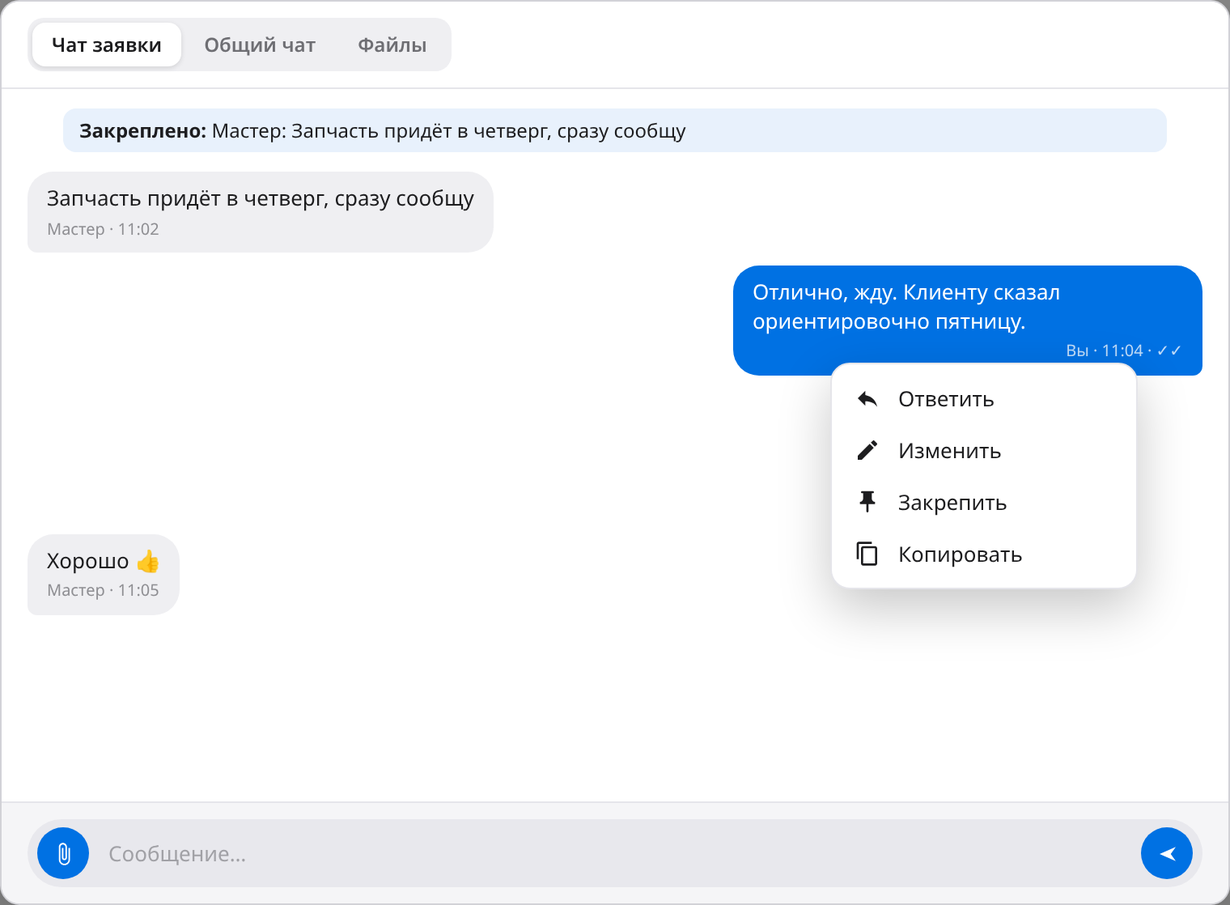
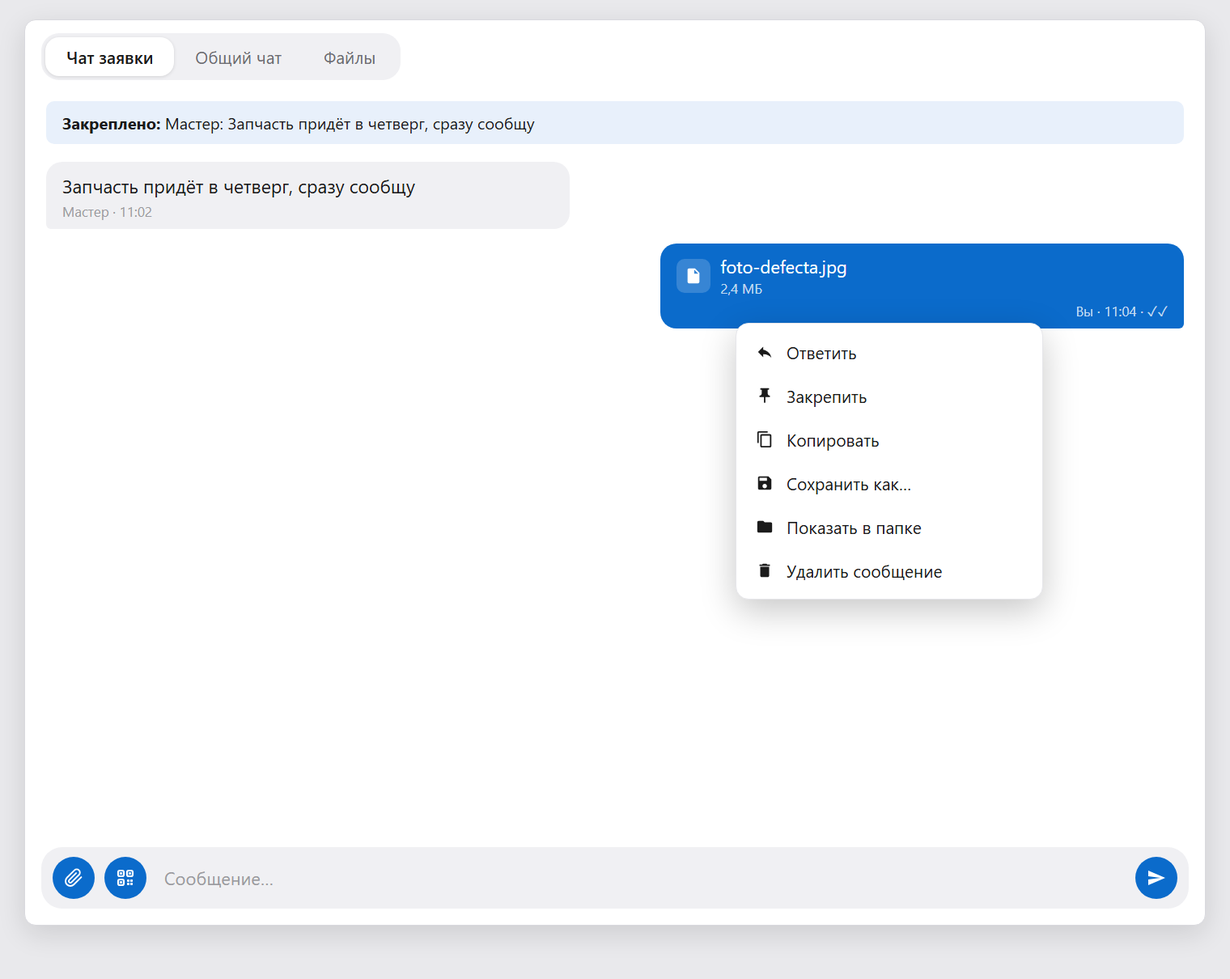
Документация 2.41: обновлено руководство (manual.html), новые иллюстрации — пароль устройства, QR-загрузка с телефона, меню сообщения

diff --git a/docs/manual.html b/docs/manual.html
@@ -83,7 +83,7 @@
       <div class="cover-desc">Заявки на ремонт, чат и уведомления между менеджерами и мастером —<br>для обеих ролей, с иллюстрациями интерфейса</div>
     </div>
     <div class="cover-meta">
-      <div>Версия программы: <b>2.39</b></div>
+      <div>Версия программы: <b>2.41</b></div>
       <div>Роли: Мастер · Менеджер</div>
       <div>Платформа: Windows 10 / 11 (64-разрядные)</div>
     </div>
@@ -119,6 +119,7 @@
     <tr><td>Создание заявок (одна или несколько одновременно)</td><td>Да, с фото и файлами до 5 ГБ</td><td>Нет</td></tr>
     <tr><td>Приём заявок, напоминания со звуком</td><td>—</td><td>Да: «Принять», «Отложить ▾» на 5–60 минут, «Заглушить»</td></tr>
     <tr><td>Чат по заявке и общий чат, файлы</td><td>Да</td><td>Да</td></tr>
+    <tr><td>Загрузка фото и файлов с телефона по QR-коду (без приложения, раздел 6.5)</td><td>Да</td><td>Да</td></tr>
     <tr><td>Завершение ремонта</td><td>Да, по любой своей заявке</td><td>Да</td></tr>
     <tr><td>Отчёт о ремонте (TXT + HTML для печати)</td><td>Создаётся автоматически в общей папке менеджера</td><td>Получает подтверждение о сохранении</td></tr>
     <tr><td>Общая папка (отчёты, журнал CSV, полученные файлы)</td><td>Полный доступ</td><td>Доступа нет: файлы хранятся локально, видны на вкладке «Файлы»</td></tr>
@@ -209,13 +210,15 @@
 <ul>
   <li><b>Текст заявки</b> — что случилось и что нужно сделать (обязательно);</li>
   <li><b>Клиент, устройство, серийный № / IMEI</b> — по желанию, всё попадёт в отчёт;</li>
-  <li><b>«Срочная заявка»</b> — заявка получит красный бейдж «СРОЧНО» в списках у менеджера и мастера;</li>
-  <li><b>«＋ Добавить файл»</b> — фото и файлы к заявке (до 10 файлов, каждый до 5 ГБ); вложения автоматически уходят в чат заявки.</li>
+  <li><b>Пароль устройства</b> — код блокировки или графический ключ (по желанию): мастер увидит его в карточке заявки и сможет сразу включить устройство, пароль попадёт в отчёт;</li>
+  <li><b>«Срочная заявка»</b> — оранжевая плашка под полями формы: заявка получит бейдж «СРОЧНО» в списках у менеджера и мастера;</li>
+  <li><b>«＋ Добавить файл»</b> — фото и файлы к заявке (до 10 файлов, каждый до 5 ГБ); вложения автоматически уходят в чат заявки;</li>
+  <li><b>«С телефона»</b> — фото и видео прямо с телефона по QR-коду, попадают в тот же список вложений (раздел 6.5).</li>
 </ul>
 <p>Кнопка «Отправить заявку» создаёт заявку даже без связи: она уйдёт автоматически при подключении. Заявок может быть несколько одновременно — у каждой свой чат и свои вложения.</p>
 <figure id="fig5">
   <img src="img/fig05-newjob.png" alt="Форма новой заявки">
-  <figcaption data-label="Рисунок 5">Форма новой заявки с полями и вложениями</figcaption>
+  <figcaption data-label="Рисунок 5">Форма новой заявки: поля, «Срочная заявка», вложения и загрузка с телефона</figcaption>
 </figure>
 
 <h2 class="newpage">4.2. Пока заявка ждёт</h2>
@@ -228,7 +231,7 @@
 <h2>4.3. Завершение, отчёт и архив</h2>
 <ol>
   <li>Когда ремонт закончен, нажмите «Завершить» в карточке нужной заявки (мастер может сделать то же у себя). Откроется панель подтверждения с необязательным полем «Что сделано» — итог попадёт в отчёт.</li>
-  <li>На компьютере менеджера в общей папке автоматически создаются два файла отчёта: обычный TXT и красивый HTML (кнопка «Открыть HTML» — удобно распечатать из браузера). В отчёте: номер и название, клиент, устройство, серийный номер, срочность, пользователь и компьютер менеджера, время начала и завершения, длительность, вся переписка и имена приложенных файлов.</li>
+  <li>На компьютере менеджера в общей папке автоматически создаются два файла отчёта: обычный TXT и красивый HTML (кнопка «Открыть HTML» — удобно распечатать из браузера). В отчёте: номер и название, клиент, устройство, серийный номер, пароль устройства, срочность, пользователь и компьютер менеджера, время начала и завершения, длительность, вся переписка и имена приложенных файлов.</li>
   <li>Завершённую карточку можно убрать кнопкой «В архив»: 8 секунд действует отмена, затем карточка убирается из списка менеджера на вкладку «Архив» (с кнопками «Отчёт» и «Удалить»), а у мастера и у остальных пользователей остаётся в общем списке со статусом «Завершена». TXT-отчёт и строка в «Журнал ремонтов.csv» сохраняются.</li>
 </ol>
 <div class="notebox">
@@ -242,7 +245,7 @@
   <li>Чужую заявку можно открыть для просмотра: описание, клиент, устройство, серийный номер, итог «Что сделано», у завершённой — кнопка «Открыть папку отчётов». Чат по чужой заявке доступен её автору и мастеру.</li>
   <li><b>Удалить заявку может любой пользователь — удаление действует сразу у всех.</b> У менеджера: «Удалить заявку» в карточке чужой или своей заявки (у ожидающей — «Отменить заявку», у зависшей — «Убрать без отчёта»), а в «Архиве» — кнопка «Удалить» в строке. Программа попросит подтверждение и предупредит, если отчёт ещё не сохранён.</li>
   <li>Удалённая заявка исчезает у мастера и у всех менеджеров — сразу, а у отключённых в этот момент — при первом подключении; удалённые заявки не «воскресают» при переподключении. Восстановить удалённую заявку нельзя. Файлы отчётов в общей папке остаются.</li>
-  <li><b>Изменить заявку может любой пользователь.</b> Кнопка «Изменить» есть в карточке каждой заявки — своей и чужой, у менеджера и у мастера. Меняются описание, клиент, устройство, серийный номер/IMEI и срочность; статус заявки, даты и уже сохранённые отчёты правка не трогает. Изменения видны сразу у всех пользователей (у отключённых — при первом подключении); если заявку изменил кто-то другой, её автор видит уведомление «Заявка изменена». У менеджера правка доступна при подключении к мастеру.</li>
+  <li><b>Изменить заявку может любой пользователь.</b> Кнопка «Изменить» есть в карточке каждой заявки — своей и чужой, у менеджера и у мастера. Меняются описание, клиент, устройство, серийный номер/IMEI, пароль и срочность; статус заявки, даты и уже сохранённые отчёты правка не трогает. Изменения видны сразу у всех пользователей (у отключённых — при первом подключении); если заявку изменил кто-то другой, её автор видит уведомление «Заявка изменена». У менеджера правка доступна при подключении к мастеру.</li>
 </ul>
 
 <h2>4.5. Общая папка</h2>
@@ -283,6 +286,7 @@
 <h2>5.3. Завершение и особые случаи</h2>
 <ul>
   <li><b>«Завершить»</b> — отчёт создаётся на компьютере менеджера; мастер получает подтверждение сохранения. Если у менеджера временно недоступна общая папка, заявка у мастера показывает «Ожидает отчёт».</li>
+  <li><b>Завершение менеджером.</b> Если заявку завершил менеджер, мастер получает всплывающее уведомление Windows «Заявка завершена менеджером» — один раз на заявку, без повторов. Уведомление отключается галочкой «Уведомлять, когда менеджер завершает заявку» в «⚙ Настройки» (включена по умолчанию).</li>
   <li>Любую заявку мастер может изменить кнопкой <b>«Изменить»</b> в её карточке: описание, клиент, устройство, серийный номер и срочность обновятся сразу у всех пользователей. Статус заявки и сохранённые отчёты не меняются.</li>
   <li>Любую заявку — ожидающую, в работе, ожидающую отчёт или завершённую — мастер может удалить кнопкой <b>«Удалить заявку»</b> в её карточке. Программа попросит подтверждение и предупредит, если отчёт ещё не сохранён. Заявка исчезает из списков у всех пользователей — сразу, а у отключённых менеджеров — при первом подключении; восстановить её нельзя. Файл отчёта в общей папке остаётся.</li>
   <li>Если ожидание отчёта затянулось (папка недоступна долго), это тот же случай: кнопка «Удалить заявку» уберёт такую заявку у всех, отчёт при этом создан не будет.</li>
@@ -304,14 +308,14 @@
 <ul>
   <li><b>Чат заявки</b> — переписка по выбранному ремонту. После завершения ремонта историю можно читать и копировать, писать нельзя.</li>
   <li><b>Общий чат</b> — переписка без привязки к ремонту, открыта всегда, даже без активных заявок. У мастера общий чат отдельный с каждым менеджером: собеседник выбирается переключателем «Чат с менеджером: …» над чатом (в списке — только менеджеры в сети; без сети поле неактивно и показывает «Менеджер не в сети»).</li>
-  <li><b>Файлы</b> — все вложения выбранной заявки и общего чата одним списком с кнопками «Открыть».</li>
+  <li><b>Файлы</b> — все вложения выбранной заявки и общего чата одним списком. У каждого файла кнопки «Открыть» и «Показать в папке»: полученный файл уже сохранён на этом компьютере, «Показать в папке» открывает проводник с выделенным файлом.</li>
 </ul>
 
 <h2>6.2. Отправка сообщений</h2>
 <ul>
   <li><b>Enter</b> — отправить, <b>Shift+Enter</b> — новая строка.</li>
   <li><b>Ctrl+V</b> вставляет скриншот из буфера обмена (уходит файлом PNG и показывается миниатюрой) или скопированные в проводнике файлы.</li>
-  <li>Файлы прикрепляются кнопкой-скрепкой слева от поля ввода или перетаскиванием прямо в окно чата — можно сразу несколько.</li>
+  <li>Файлы прикрепляются кнопкой-скрепкой слева от поля ввода или перетаскиванием прямо в окно чата — можно сразу несколько. Кнопка с QR-кодом рядом со скрепкой принимает фото и файлы с телефона (раздел 6.5).</li>
   <li>Статусы под своими сообщениями: «○ В очереди» → «✓ Доставлено» → «✓✓ Прочитано».</li>
   <li>Текст любого сообщения выделяется мышью и копируется обычным Ctrl+C.</li>
 </ul>
@@ -320,7 +324,7 @@
 <p>Правый клик по любому сообщению открывает меню в стиле Telegram — скруглённая карточка в цветах текущей темы оформления с иконками (рис. 7):</p>
 <figure class="wide" id="fig7">
   <img src="img/fig07-chat.png" alt="Меню правой кнопки по сообщению">
-  <figcaption data-label="Рисунок 7">Меню правой кнопки: «Ответить», «Изменить», «Закрепить», «Копировать»</figcaption>
+  <figcaption data-label="Рисунок 7">Меню правой кнопки по сообщению с файлом</figcaption>
 </figure>
 <table>
   <caption data-label="Таблица 4">Действия меню сообщения</caption>
@@ -330,6 +334,9 @@
     <tr><td>Изменить</td><td>Только свои текстовые сообщения: текст возвращается в поле, Enter сохраняет правку, Esc отменяет. Исправление сразу видно собеседнику</td></tr>
     <tr><td>Закрепить</td><td>Закрепляет сообщение полосой над историей у обоих участников; клик по полосе прокручивает к сообщению. Повторный выбор — «Открепить». Закреп сохраняется между перезапусками</td></tr>
     <tr><td>Копировать</td><td>Копирует текст сообщения (или название файла) в буфер обмена</td></tr>
+    <tr><td>Сохранить как…</td><td>Только у сообщений с файлами: копирует вложение в выбранное место (неактивен, пока файл ещё передаётся)</td></tr>
+    <tr><td>Показать в папке</td><td>Только у сообщений с файлами: открывает проводник с уже сохранённым на этом компьютере файлом</td></tr>
+    <tr><td>Удалить сообщение</td><td>Неотправленное своё («В очереди») исчезает совсем; остальные удаляются только на этом компьютере — программа предупредит, что у собеседника сообщение останется</td></tr>
   </tbody>
 </table>
 
@@ -339,12 +346,31 @@
 <p>Если большие файлы отправляются слишком долго, над полем сообщения появляется «Остановить файлы»: недоставленные файлы этого чата отменяются (у получателя удаляется недокачанная часть), связь и переписка продолжаются.</p>
 <p>Неотправленное сообщение «В очереди» можно удалить маленьким значком «✕» рядом с датой.</p>
 
+<h2 class="newpage">6.5. Загрузка фото и файлов с телефона (QR-код)</h2>
+<p>Фото, видео и документы можно передать в чат или в новую заявку прямо с телефона — без приложений, облаков и кабелей. Телефон и компьютер должны быть в одной Wi-Fi сети, интернет не нужен.</p>
+<ol>
+  <li>Нажмите кнопку с QR-кодом рядом со скрепкой (в любом чате) или «С телефона» в форме новой заявки — откроется окно с QR-кодом (рис. 8).</li>
+  <li>Наведите на код камеру телефона и откройте ссылку — загрузится страница передачи. Выберите файлы: можно несколько сразу.</li>
+  <li>Дождитесь конца передачи — файлы сами попадут в текущий чат или в список вложений заявки, а дальше уйдут собеседнику обычным путём.</li>
+</ol>
+<figure id="fig8">
+  <img src="img/fig08-qr.png" alt="Окно загрузки с телефона">
+  <figcaption data-label="Рисунок 8">Окно загрузки с телефона: QR-код, выбор адреса и кнопка «Разрешить в брандмауэре»</figcaption>
+</figure>
+<ul>
+  <li>Размер — до 5 ГБ на файл; файлы идут частями, при обрыве страница продолжит с места обрыва. Ссылка одноразовая, окно действует 10 минут без дела.</li>
+  <li>Если сетей несколько, адрес переключается списком под QR-кодом — первым стоит «рекомендуемый». Адрес 100.x.x.x (Tailscale) работает, только если на телефоне включён тот же Tailscale.</li>
+  <li><b>Страница на телефоне не открывается?</b> Нажмите «Разрешить в брандмауэре» в окне QR-кода и подтвердите запрос администратора — это нужно один раз на компьютере. Также проверьте, что Wi-Fi не гостевая: в гостевых сетях устройства изолированы.</li>
+  <li>Держите страницу открытой, пока идёт передача: на заблокированном экране телефон ставит загрузку на паузу.</li>
+  <li>На iPhone выбирайте файлы через «Файлы», если важен исходный формат (HEIC, ProRes): выбор через «Фото» может перекодировать снимки и видео — так делает iOS, а не программа.</li>
+</ul>
+
 <h1 class="sec" id="sec7">7. Уведомления и звуки</h1>
 <h2>7.1. Карточка входящего сообщения</h2>
-<p>Новое сообщение или файл вызывает карточку в правом нижнем углу, над часами (рис. 8) — в стиле мини-панели. Карточка звучит сигналом, не исчезает сама и не перехватывает фокус: закрывается только кнопкой или ✕.</p>
-<figure id="fig8">
-  <img src="img/fig08-notify.png" alt="Карточка входящего сообщения">
-  <figcaption data-label="Рисунок 8">Карточка входящего сообщения справа внизу экрана</figcaption>
+<p>Новое сообщение или файл вызывает карточку в правом нижнем углу, над часами (рис. 9) — в стиле мини-панели. Карточка звучит сигналом, не исчезает сама и не перехватывает фокус: закрывается только кнопкой или ✕.</p>
+<figure id="fig9">
+  <img src="img/fig09-notify.png" alt="Карточка входящего сообщения">
+  <figcaption data-label="Рисунок 9">Карточка входящего сообщения справа внизу экрана</figcaption>
 </figure>
 <ul>
   <li><b>«Открыть чат»</b> — открывает нужный чат и останавливает сигнал.</li>
@@ -369,14 +395,14 @@
 <p>Заявки, сообщения и завершение дублируются стандартными уведомлениями Windows — системный тост исчезает сам через несколько секунд, постоянным напоминанием служит внутренняя карточка программы. Если уведомлений не видно, проверьте «Параметры → Система → Уведомления» и отключите «Не беспокоить».</p>
 
 <h1 class="sec" id="sec8">8. Мини-панель и область уведомлений</h1>
-<p>Одиночный клик левой кнопкой по значку «СЕРВИС ЛЕГКО» возле часов открывает компактную мини-панель над треем (рис. 9 и 10). Она закрывается кликом мимо неё, клавишей Esc или повторным кликом по значку.</p>
-<figure id="fig9">
-  <img src="img/fig09-minipanel.png" alt="Мини-панель менеджера">
-  <figcaption data-label="Рисунок 9">Мини-панель менеджера</figcaption>
-</figure>
+<p>Одиночный клик левой кнопкой по значку «СЕРВИС ЛЕГКО» возле часов открывает компактную мини-панель над треем (рис. 10 и 11). Она закрывается кликом мимо неё, клавишей Esc или повторным кликом по значку.</p>
 <figure id="fig10">
-  <img src="img/fig10-minimaster.png" alt="Мини-панель мастера">
-  <figcaption data-label="Рисунок 10">Мини-панель мастера</figcaption>
+  <img src="img/fig10-minipanel.png" alt="Мини-панель менеджера">
+  <figcaption data-label="Рисунок 10">Мини-панель менеджера</figcaption>
+</figure>
+<figure id="fig11">
+  <img src="img/fig11-minimaster.png" alt="Мини-панель мастера">
+  <figcaption data-label="Рисунок 11">Мини-панель мастера</figcaption>
 </figure>
 <ul>
   <li>У менеджера — «Быстрая заявка»: одно поле «Что сломалось?», галочка «Срочно» и кнопка «Отправить» (работает и Enter); ниже — список активных заявок, клик по строке открывает её в полном окне.</li>
@@ -389,10 +415,10 @@
 <p>Нажатие на ✕ любого главного окна скрывает программу в область уведомлений — связь, сигналы, чаты и очередь продолжают работать. Вернуть окно: двойной клик по значку или правая кнопка → «Открыть СЕРВИС ЛЕГКО». Полный выход — только через правую кнопку по значку → «Закрыть программу»; если есть неотправленные сообщения, программа предупредит: очередь сохранится и уйдёт при следующем запуске.</p>
 
 <h1 class="sec" id="sec9">9. Настройки</h1>
-<p>Все параметры собраны на выдвижной панели «⚙ Настройки» (рис. 11). Клавиша Esc закрывает панель.</p>
-<figure id="fig11">
-  <img src="img/fig11-settings.png" alt="Панель настроек менеджера">
-  <figcaption data-label="Рисунок 11">Панель настроек менеджера</figcaption>
+<p>Все параметры собраны на выдвижной панели «⚙ Настройки» (рис. 12). Клавиша Esc закрывает панель.</p>
+<figure id="fig12">
+  <img src="img/fig12-settings.png" alt="Панель настроек менеджера">
+  <figcaption data-label="Рисунок 12">Панель настроек менеджера</figcaption>
 </figure>
 <table style="page-break-inside: avoid;">
   <caption data-label="Таблица 6">Разделы настроек</caption>
@@ -402,6 +428,7 @@
     <tr><td>Внешний вид</td><td>Тема: «Как в Windows», «Светлая» или «Тёмная». Новая тема применится при следующем запуске программы</td></tr>
     <tr><td>Тихие часы</td><td>Интервал без звука (например, 22:00–08:00)</td></tr>
     <tr><td>Звуки уведомлений</td><td>Отдельный звук для каждого сценария, включая свой файл WAV/MP3</td></tr>
+    <tr><td>Уведомления (мастер)</td><td>Галочка «Уведомлять, когда менеджер завершает заявку» (включена по умолчанию)</td></tr>
     <tr><td>Общая папка (менеджер)</td><td>«Открыть общую папку», «Изменить общую папку»</td></tr>
     <tr><td>Диагностика</td><td>Текущая версия, пользователь и компьютер, «Скопировать диагностику», «Открыть журнал» (app.log), «Сменить роль»</td></tr>
     <tr><td>Автозапуск</td><td>«Автозапуск вместе с Windows» и «При автозапуске открываться только в трее» (оба включены по умолчанию)</td></tr>
@@ -442,6 +469,8 @@
     <tr><td>У мастера «Порт 47891 уже занят»</td><td>Работает вторая копия программы или старая «РемонтСвязь»: закройте её через значок возле часов (правой кнопкой → «Закрыть программу») и перезапустите</td></tr>
     <tr><td>Windows показала предупреждение SmartScreen</td><td>«Подробнее» → «Выполнить в любом случае». Это стандартная реакция на новые файлы; со временем она исчезает</td></tr>
     <tr><td>Не видны уведомления Windows</td><td>Параметры → Система → Уведомления; отключите «Не беспокоить»</td></tr>
+    <tr><td>Телефон не открывает страницу по QR-коду</td><td>Нажмите «Разрешить в брандмауэре» в окне QR-кода (один раз, нужны права администратора). Телефон и компьютер должны быть в одной Wi-Fi сети, не гостевой; проверьте, что выбран «рекомендуемый» адрес</td></tr>
+    <tr><td>Загрузка с телефона остановилась</td><td>Держите страницу открытой и экран включённым; при обрыве откройте ссылку снова — передача продолжится с места обрыва</td></tr>
     <tr><td>Не слышно сигналов</td><td>Проверьте системную громкость, «Тихие часы» и выбранный звук в «⚙ Настройки»</td></tr>
     <tr><td>«Обновите программу — версии отличаются»</td><td>Обновите обе стороны до одной версии. Повторная попытка — сама через 10 минут или по кнопке «Повторить сейчас»</td></tr>
     <tr><td>Нужна помощь разработчика</td><td>«⚙ Настройки» → «Скопировать диагностику» и «Открыть журнал» — приложите app.log к обращению</td></tr>

diff --git a/docs/mock-chat.html b/docs/mock-chat.html
@@ -1,0 +1,70 @@
+<!DOCTYPE html>
+<html lang="ru">
+<head>
+<meta charset="utf-8">
+<style>
+  * { box-sizing: border-box; margin: 0; padding: 0; }
+  body { font-family: "Segoe UI", "DejaVu Sans", sans-serif; background: #e9e9ec; width: 1520px; height: 1180px; overflow: hidden; }
+  .win { width: 1460px; height: 1120px; margin: 24px auto 0; background: #ffffff; border: 1px solid #d9d9de; border-radius: 14px; overflow: hidden; box-shadow: 0 10px 34px rgba(0,0,0,.12); display: flex; flex-direction: column; }
+  .tabs { padding: 16px 20px 0; }
+  .tabs-in { display: inline-flex; background: #f0f0f3; border-radius: 22px; padding: 5px; }
+  .tab { padding: 10px 26px; font-size: 21px; color: #6b6b70; border-radius: 17px; }
+  .tab.active { background: #fff; color: #1b1b1b; font-weight: 600; box-shadow: 0 1px 4px rgba(0,0,0,.12); }
+  .history { flex: 1; padding: 20px 26px; position: relative; }
+  .pinned { background: #e8f0fb; border-radius: 10px; padding: 13px 20px; font-size: 20px; color: #1b1b1b; margin: 6px 0 22px; }
+  .bubble { max-width: 46%; border-radius: 20px; padding: 14px 20px 10px; font-size: 23px; line-height: 1.35; margin-bottom: 18px; }
+  .bubble .meta { font-size: 17px; color: #9a9aa0; margin-top: 5px; }
+  .bubble.in { background: #f0f0f3; color: #1b1b1b; border-bottom-left-radius: 6px; }
+  .bubble.out { background: #0b6bcb; color: #fff; margin-left: auto; border-bottom-right-radius: 6px; }
+  .bubble.out .meta { color: rgba(255,255,255,.75); text-align: right; }
+  .fileline { display: flex; align-items: center; gap: 12px; }
+  .fileicon { width: 42px; height: 42px; border-radius: 10px; background: rgba(255,255,255,.18); display: flex; align-items: center; justify-content: center; }
+  .fileicon svg { width: 22px; height: 22px; }
+  .fname { font-size: 22px; }
+  .fsize { font-size: 17px; color: rgba(255,255,255,.75); }
+  .menu { position: absolute; right: 200px; top: 300px; width: 380px; background: #fff; border-radius: 16px; box-shadow: 0 14px 44px rgba(0,0,0,.22); border: 1px solid #e6e6ea; padding: 8px; }
+  .mi { display: flex; align-items: center; gap: 16px; padding: 13px 16px; font-size: 21px; color: #1b1b1b; border-radius: 10px; }
+  .mi svg { width: 22px; height: 22px; flex: none; }
+  .composer { margin: 0 20px 20px; background: #f0f0f3; border-radius: 26px; padding: 12px 14px; display: flex; align-items: center; gap: 12px; }
+  .cbtn { width: 52px; height: 52px; border-radius: 50%; background: #0b6bcb; display: flex; align-items: center; justify-content: center; flex: none; }
+  .cbtn svg { width: 24px; height: 24px; }
+  .placeholder { flex: 1; font-size: 22px; color: #9a9aa0; padding-left: 10px; }
+</style>
+</head>
+<body>
+<div class="win">
+  <div class="tabs"><div class="tabs-in">
+    <div class="tab active">Чат заявки</div><div class="tab">Общий чат</div><div class="tab">Файлы</div>
+  </div></div>
+  <div class="history">
+    <div class="pinned"><b>Закреплено:</b> Мастер: Запчасть придёт в четверг, сразу сообщу</div>
+    <div class="bubble in">Запчасть придёт в четверг, сразу сообщу<div class="meta">Мастер · 11:02</div></div>
+    <div class="bubble out">
+      <div class="fileline">
+        <div class="fileicon"><svg viewBox="0 0 24 24" fill="#fff"><path d="M14,2H6C4.9,2 4,2.9 4,4v16c0,1.1 0.9,2 2,2h12c1.1,0 2-0.9 2-2V8L14,2z M13,9V3.5L18.5,9H13z"/></svg></div>
+        <div><div class="fname">foto-defecta.jpg</div><div class="fsize">2,4 МБ</div></div>
+      </div>
+      <div class="meta">Вы · 11:04 · ✓✓</div>
+    </div>
+    <div class="menu">
+      <div class="mi"><svg viewBox="0 0 24 24" fill="#1b1b1b"><path d="M10,9V5l-7,7 7,7v-4.1c5,0 8.5,1.6 11,5.1-1-5.5-4.5-9.5-11-11z"/></svg>Ответить</div>
+      <div class="mi"><svg viewBox="0 0 24 24" fill="#1b1b1b"><path d="M16,9V4h1c0.55,0 1-0.45 1-1s-0.45-1-1-1H7C6.45,2 6,2.45 6,3s0.45,1 1,1h1v5c0,1.66-1.34,3-3,3v2h5.97v7l1,1 1-1v-7H19v-2c-1.66,0-3-1.34-3-3z"/></svg>Закрепить</div>
+      <div class="mi"><svg viewBox="0 0 24 24" fill="#1b1b1b"><path d="M16,1H4C2.9,1 2,1.9 2,3v14h2V3h12V1zm3,4H8C6.9,5 6,5.9 6,7v14c0,1.1 0.9,2 2,2h11c1.1,0 2-0.9 2-2V7C21,5.9 20.1,5 19,5zm0,16H8V7h11v14z"/></svg>Копировать</div>
+      <div class="mi"><svg viewBox="0 0 24 24" fill="#1b1b1b"><path d="M17,3H5C3.89,3 3,3.9 3,5v14c0,1.1 0.89,2 2,2h14c1.1,0 2-0.9 2-2V7l-4-4zm-5,16c-1.66,0-3-1.34-3-3s1.34-3 3-3 3,1.34 3,3-1.34,3-3,3zm3-10H5V5h10v4z"/></svg>Сохранить как…</div>
+      <div class="mi"><svg viewBox="0 0 24 24" fill="#1b1b1b"><path d="M10,4H4C2.9,4 2.01,4.9 2.01,6L2,18c0,1.1 0.9,2 2,2h16c1.1,0 2-0.9 2-2V8c0-1.1-0.9-2-2-2h-8l-2-2z"/></svg>Показать в папке</div>
+      <div class="mi"><svg viewBox="0 0 24 24" fill="#1b1b1b"><path d="M6,19c0,1.1 0.9,2 2,2h8c1.1,0 2-0.9 2-2V7H6v12zM19,4h-3.5l-1-1h-5l-1,1H5v2h14V4z"/></svg>Удалить сообщение</div>
+    </div>
+  </div>
+  <div class="composer">
+    <div class="cbtn"><svg viewBox="0 0 24 24" fill="none" stroke="#fff" stroke-width="1.9" stroke-linecap="round" stroke-linejoin="round"><path d="M21.44 11.05l-9.19 9.19a6 6 0 0 1-8.49-8.49l9.19-9.19a4 4 0 1 1 5.66 5.66l-9.2 9.19a2 2 0 0 1-2.83-2.83l8.49-8.48"/></svg></div>
+    <div class="cbtn"><svg viewBox="0 0 24 24" fill="none" stroke="#fff" stroke-width="2.2">
+      <rect x="3" y="3" width="7" height="7" rx="2"/><rect x="14" y="3" width="7" height="7" rx="2"/><rect x="3" y="14" width="7" height="7" rx="2"/>
+      <rect x="6.2" y="6.2" width="0.6" height="0.6" fill="#fff"/><rect x="17.2" y="6.2" width="0.6" height="0.6" fill="#fff"/><rect x="6.2" y="17.2" width="0.6" height="0.6" fill="#fff"/>
+      <rect x="14" y="14" width="3" height="3" rx="0.8" fill="#fff" stroke="none"/><rect x="18" y="14" width="3" height="3" rx="0.8" fill="#fff" stroke="none"/><rect x="14" y="18" width="3" height="3" rx="0.8" fill="#fff" stroke="none"/><rect x="18" y="18" width="3" height="3" rx="0.8" fill="#fff" stroke="none"/>
+    </svg></div>
+    <div class="placeholder">Сообщение…</div>
+    <div class="cbtn"><svg viewBox="0 0 24 24" fill="#fff"><path d="M2,21L23,12 2,3v7l15,2-15,2v7z"/></svg></div>
+  </div>
+</div>
+</body>
+</html>

diff --git a/docs/mock-newjob.html b/docs/mock-newjob.html
@@ -1,0 +1,73 @@
+<!DOCTYPE html>
+<html lang="ru">
+<head>
+<meta charset="utf-8">
+<style>
+  * { box-sizing: border-box; margin: 0; padding: 0; }
+  body { font-family: "Segoe UI", "DejaVu Sans", sans-serif; background: #e9e9ec; width: 1120px; height: 1120px; overflow: hidden; }
+  .win { width: 1040px; margin: 30px auto 0; background: #ffffff; border: 1px solid #d9d9de; border-radius: 14px; overflow: hidden; box-shadow: 0 10px 34px rgba(0,0,0,.12); }
+  .content { padding: 40px 44px 34px; }
+  h1 { font-size: 33px; font-weight: 700; color: #1b1b1b; margin-bottom: 12px; }
+  .desc { font-size: 20px; color: #6b6b70; line-height: 1.45; margin-bottom: 26px; }
+  .area { background: #efeff3; border: none; border-radius: 14px; height: 205px; padding: 24px 26px; font-size: 22px; color: #1b1b1b; margin-bottom: 26px; }
+  .row { display: flex; gap: 34px; margin-bottom: 22px; }
+  .col { flex: 1; }
+  label { display: block; font-size: 18px; color: #55555a; margin-bottom: 9px; }
+  .field { background: #efeff3; border-radius: 12px; height: 68px; display: flex; align-items: center; padding: 0 22px; font-size: 22px; color: #1b1b1b; }
+  .field.placeholder { color: #9a9aa0; }
+  .urgent { display: flex; align-items: center; gap: 14px; background: rgba(255,159,10,.13); border: 1.5px solid rgba(255,159,10,.55); border-radius: 14px; padding: 16px 22px; margin: 4px 0 24px; }
+  .urgent .box { width: 26px; height: 26px; border-radius: 8px; background: #ff9f0a; display: flex; align-items: center; justify-content: center; }
+  .urgent .box svg { width: 17px; height: 17px; }
+  .urgent span { font-size: 21px; font-weight: 600; color: #c26a00; }
+  .chips { display: flex; gap: 16px; margin-bottom: 20px; }
+  .chip { background: #efeff3; border-radius: 10px; padding: 11px 18px; font-size: 19px; color: #1b1b1b; }
+  .chip b { font-weight: 400; color: #8a8a90; margin-left: 8px; }
+  .actions { display: flex; gap: 16px; margin-bottom: 34px; }
+  .btn-white { display: flex; align-items: center; gap: 10px; background: #fff; border: 1.5px solid #d5d5da; border-radius: 12px; padding: 13px 22px; font-size: 20px; color: #1b1b1b; }
+  .btn-white svg { width: 21px; height: 21px; }
+  .bottom { display: flex; justify-content: flex-end; align-items: center; gap: 26px; }
+  .btn-quiet { background: none; border: none; color: #6b6b70; font-size: 21px; padding: 10px 14px; }
+  .btn-primary { background: #0b6bcb; color: #fff; border: none; border-radius: 12px; font-size: 21px; font-weight: 600; padding: 16px 30px; }
+</style>
+</head>
+<body>
+<div class="win">
+  <div class="content">
+    <h1>Новая заявка</h1>
+    <div class="desc">Опишите проблему — мастер увидит заявку сразу, как только будет связь.<br>Можно работать сразу с несколькими ремонтами.</div>
+    <div class="area">Не включается ноутбук Lenovo — чёрный экран, индикатор питания горит</div>
+    <div class="row">
+      <div class="col"><label>Клиент (необязательно)</label><div class="field">Иванов</div></div>
+      <div class="col"><label>Устройство (необязательно)</label><div class="field">ноутбук Lenovo V15</div></div>
+    </div>
+    <div class="row">
+      <div class="col"><label>Серийный № / IMEI (необязательно)</label><div class="field">PF3X9K21</div></div>
+      <div class="col"><label>Пароль устройства (необязательно)</label><div class="field">220222</div></div>
+    </div>
+    <div class="urgent">
+      <div class="box"><svg viewBox="0 0 24 24" fill="none" stroke="#fff" stroke-width="3.4" stroke-linecap="round" stroke-linejoin="round"><polyline points="4 12.5 9.5 18 20 6.5"/></svg></div>
+      <span>Срочная заявка</span>
+    </div>
+    <div class="chips">
+      <div class="chip">plata-foto.jpg · 2,4 МБ<b>✕</b></div>
+      <div class="chip">video-sboj.mp4 · 18,1 МБ<b>✕</b></div>
+    </div>
+    <div class="actions">
+      <button class="btn-white">＋ Добавить файл</button>
+      <button class="btn-white">
+        <svg viewBox="0 0 24 24" fill="none" stroke="#1b1b1b" stroke-width="2.2">
+          <rect x="3" y="3" width="7" height="7" rx="2"/><rect x="14" y="3" width="7" height="7" rx="2"/><rect x="3" y="14" width="7" height="7" rx="2"/>
+          <rect x="6.2" y="6.2" width="0.6" height="0.6" fill="#1b1b1b"/><rect x="17.2" y="6.2" width="0.6" height="0.6" fill="#1b1b1b"/><rect x="6.2" y="17.2" width="0.6" height="0.6" fill="#1b1b1b"/>
+          <rect x="14" y="14" width="3" height="3" rx="0.8" fill="#1b1b1b" stroke="none"/><rect x="18" y="14" width="3" height="3" rx="0.8" fill="#1b1b1b" stroke="none"/><rect x="14" y="18" width="3" height="3" rx="0.8" fill="#1b1b1b" stroke="none"/><rect x="18" y="18" width="3" height="3" rx="0.8" fill="#1b1b1b" stroke="none"/>
+        </svg>
+        С телефона
+      </button>
+    </div>
+    <div class="bottom">
+      <button class="btn-quiet">Отмена</button>
+      <button class="btn-primary">Отправить заявку</button>
+    </div>
+  </div>
+</div>
+</body>
+</html>

diff --git a/docs/mock-qr.html b/docs/mock-qr.html
@@ -1,0 +1,53 @@
+<!DOCTYPE html>
+<html lang="ru">
+<head>
+<meta charset="utf-8">
+<style>
+  * { box-sizing: border-box; margin: 0; padding: 0; }
+  body { font-family: "Segoe UI", "DejaVu Sans", sans-serif; background: #e9e9ec; width: 520px; height: 800px; overflow: hidden; }
+  .win { width: 470px; margin: 16px auto 0; background: #f9f9f9; border: 1px solid #c9c9c9; border-radius: 8px; overflow: hidden; box-shadow: 0 10px 34px rgba(0,0,0,.14); }
+  .titlebar { display: flex; align-items: center; gap: 8px; background: #efefef; border-bottom: 1px solid #e0e0e0; padding: 9px 12px; }
+  .dots { display: flex; gap: 5px; }
+  .dot { width: 10px; height: 10px; border-radius: 50%; background: #c7c7c7; }
+  .titletext { font-size: 12px; color: #444; }
+  .content { padding: 20px 24px 20px; background: #ffffff; }
+  h1 { font-size: 20px; font-weight: 600; color: #1b1b1b; margin-bottom: 4px; }
+  .dest { font-size: 13px; color: #6b6b70; margin-bottom: 12px; white-space: nowrap; overflow: hidden; text-overflow: ellipsis; }
+  .qrwrap { background: #fff; border: 1px solid #ececf0; border-radius: 14px; padding: 12px; width: 220px; margin: 0 auto 12px; }
+  .qrwrap img { width: 196px; height: 196px; display: block; }
+  .note { font-size: 12.5px; color: #6b6b70; line-height: 1.45; margin-bottom: 6px; }
+  .lbl { font-size: 12px; font-weight: 600; color: #1b1b1b; margin: 6px 0 3px; }
+  .combo { background: #fff; border: 1px solid #d5d5da; border-radius: 7px; padding: 8px 12px; font-size: 13px; color: #1b1b1b; display: flex; justify-content: space-between; align-items: center; margin-bottom: 6px; }
+  .combo .chev { color: #8a8a90; font-size: 11px; }
+  .url { background: #f4f4f6; border: 1px solid #e2e2e6; border-radius: 7px; padding: 7px 12px; font-size: 12px; color: #55555a; margin-bottom: 10px; font-family: "Consolas", monospace; }
+  .fw { background: rgba(255,159,10,.12); border-radius: 9px; padding: 10px; margin-bottom: 10px; }
+  .fw p { font-size: 12px; color: #1b1b1b; line-height: 1.4; }
+  .fw .btn { display: inline-block; margin-top: 8px; background: #fff; border: 1.5px solid #d5d5da; border-radius: 8px; padding: 7px 14px; font-size: 12.5px; color: #1b1b1b; }
+  .status { font-size: 14px; font-weight: 600; color: #1b1b1b; margin: 4px 0 6px; }
+  .done { width: 100%; background: #0b6bcb; color: #fff; border: none; border-radius: 10px; font-size: 14px; font-weight: 600; padding: 11px 0; margin-top: 8px; }
+</style>
+</head>
+<body>
+<div class="win">
+  <div class="titlebar">
+    <div class="dots"><div class="dot"></div><div class="dot"></div><div class="dot"></div></div>
+    <div class="titletext">Загрузка с телефона — СЕРВИС ЛЕГКО</div>
+  </div>
+  <div class="content">
+    <h1>Загрузить с телефона</h1>
+    <div class="dest">Куда: Чат заявки «ноутбук Lenovo V15 — не включается»</div>
+    <div class="qrwrap"><img src="qr-sample.png" alt="QR"></div>
+    <div class="note">Отсканируйте камерой iPhone (или Android) и выберите фото, видео или файлы. Телефон должен быть в той же Wi-Fi сети, что и этот компьютер. До 5 ГБ на файл.</div>
+    <div class="lbl">Адрес компьютера</div>
+    <div class="combo"><span>192.168.1.50 — рекомендуемый</span><span class="chev">▾</span></div>
+    <div class="url">http://192.168.1.50:47893/m/V7k2QpXr9LwZ3nT8aBcD…</div>
+    <div class="fw">
+      <p>Windows может блокировать приём файлов с телефона. Если страница на телефоне не открывается — разрешите порт в брандмауэре (один раз, понадобится подтверждение администратора).</p>
+      <span class="btn">Разрешить в брандмауэре</span>
+    </div>
+    <div class="status">Ожидаем подключения телефона…</div>
+    <button class="done">Готово</button>
+  </div>
+</div>
+</body>
+</html>
